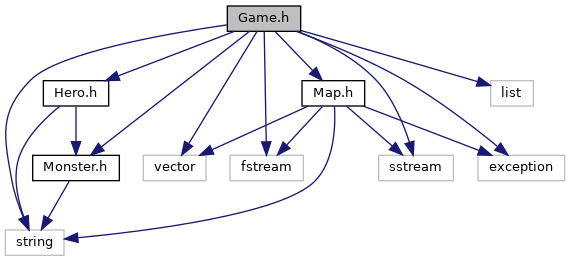
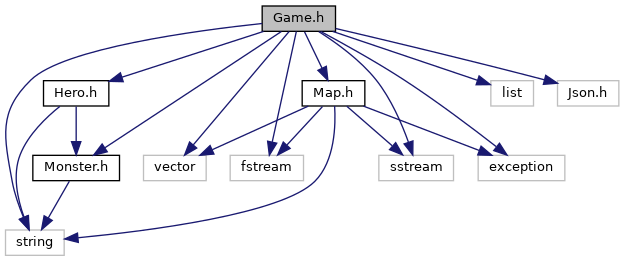
Update gh-pages to output generated at 0e535df

diff --git a/Game_8h_source.html b/Game_8h_source.html
@@ -82,75 +82,76 @@ $(function() {
 <div class="line"><a name="l00025"></a><span class="lineno">   25</span>&#160;<span class="preprocessor">#include &quot;<a class="code" href="Hero_8h.html">Hero.h</a>&quot;</span></div>
 <div class="line"><a name="l00026"></a><span class="lineno">   26</span>&#160;<span class="preprocessor">#include &quot;<a class="code" href="Map_8h.html">Map.h</a>&quot;</span></div>
 <div class="line"><a name="l00027"></a><span class="lineno">   27</span>&#160;<span class="preprocessor">#include &quot;<a class="code" href="Monster_8h.html">Monster.h</a>&quot;</span></div>
-<div class="line"><a name="l00028"></a><span class="lineno">   28</span>&#160; </div>
-<div class="line"><a name="l00029"></a><span class="lineno"><a class="line" href="classGame.html">   29</a></span>&#160;<span class="keyword">class </span><a class="code" href="classGame.html">Game</a></div>
-<div class="line"><a name="l00030"></a><span class="lineno">   30</span>&#160;{</div>
-<div class="line"><a name="l00031"></a><span class="lineno">   31</span>&#160; <span class="keyword">private</span>:</div>
-<div class="line"><a name="l00032"></a><span class="lineno">   32</span>&#160;    std::map&lt;int,std::map&lt;int, std::list&lt;Monster&gt;&gt;&gt; monster_map;</div>
-<div class="line"><a name="l00033"></a><span class="lineno">   33</span>&#160;    <a class="code" href="classMap.html">Map</a>* map=NULL; <span class="comment">//Sets initial value to NULL</span></div>
-<div class="line"><a name="l00034"></a><span class="lineno">   34</span>&#160;    <a class="code" href="classHero.html">Hero</a>* hero=NULL; <span class="comment">//Sets initial value to NULL</span></div>
-<div class="line"><a name="l00043"></a><span class="lineno">   43</span>&#160;<span class="comment"></span>    <span class="keywordtype">void</span> initMonsterMap();</div>
-<div class="line"><a name="l00052"></a><span class="lineno">   52</span>&#160;    <span class="keywordtype">bool</span> anyMonstersAlive();</div>
-<div class="line"><a name="l00053"></a><span class="lineno">   53</span>&#160; <span class="keyword">public</span>:</div>
-<div class="line"><a name="l00060"></a><span class="lineno">   60</span>&#160;    <a class="code" href="classGame.html#ad59df6562a58a614fda24622d3715b65">Game</a>();</div>
-<div class="line"><a name="l00069"></a><span class="lineno">   69</span>&#160;    <a class="code" href="classGame.html#ad59df6562a58a614fda24622d3715b65">Game</a>(std::string);</div>
-<div class="line"><a name="l00076"></a><span class="lineno">   76</span>&#160;    <span class="keywordtype">void</span> <a class="code" href="classGame.html#ad746449c7fd34ff25f986fb4b6358ff6">setMap</a>(<a class="code" href="classMap.html">Map</a>*); <span class="comment">// Set the map</span></div>
-<div class="line"><a name="l00086"></a><span class="lineno">   86</span>&#160;<span class="comment"></span>    <span class="keywordtype">void</span> <a class="code" href="classGame.html#aae230ebacd4b61064470ed6414228def">putHero</a>(<a class="code" href="classHero.html">Hero</a>*, <span class="keywordtype">int</span>, <span class="keywordtype">int</span>);</div>
-<div class="line"><a name="l00093"></a><span class="lineno">   93</span>&#160;    <span class="keywordtype">void</span> <a class="code" href="classGame.html#add0231b4835c8368e43581c4abc01c4c">putMonster</a>(<a class="code" href="classMonster.html">Monster</a>*, <span class="keywordtype">int</span>, <span class="keywordtype">int</span>);</div>
-<div class="line"><a name="l00098"></a><span class="lineno">   98</span>&#160;    <span class="keywordtype">void</span> <a class="code" href="classGame.html#a1ab78f5ed0d5ea879157357cf2fb2afa">run</a>();</div>
-<div class="line"><a name="l00099"></a><span class="lineno">   99</span>&#160; </div>
-<div class="line"><a name="l00100"></a><span class="lineno"><a class="line" href="classGame_1_1OccupiedException.html">  100</a></span>&#160;    <span class="keyword">class </span><a class="code" href="classGame_1_1OccupiedException.html">OccupiedException</a> : std::exception</div>
-<div class="line"><a name="l00101"></a><span class="lineno">  101</span>&#160;    {</div>
-<div class="line"><a name="l00102"></a><span class="lineno">  102</span>&#160;        <span class="keyword">public</span>:</div>
-<div class="line"><a name="l00107"></a><span class="lineno"><a class="line" href="classGame_1_1OccupiedException.html#a2d06f1e94c0d870fa9297d690495c455">  107</a></span>&#160;            <a class="code" href="classGame_1_1OccupiedException.html#a2d06f1e94c0d870fa9297d690495c455">OccupiedException</a>(){}</div>
-<div class="line"><a name="l00108"></a><span class="lineno">  108</span>&#160;    };</div>
-<div class="line"><a name="l00109"></a><span class="lineno"><a class="line" href="classGame_1_1AlreadyHasHeroException.html">  109</a></span>&#160;    <span class="keyword">class </span><a class="code" href="classGame_1_1AlreadyHasHeroException.html">AlreadyHasHeroException</a> : std::exception</div>
-<div class="line"><a name="l00110"></a><span class="lineno">  110</span>&#160;    {</div>
-<div class="line"><a name="l00111"></a><span class="lineno">  111</span>&#160;        <span class="keyword">public</span>:</div>
-<div class="line"><a name="l00116"></a><span class="lineno"><a class="line" href="classGame_1_1AlreadyHasHeroException.html#a661fe174e6ed027c3ebe5a5c13bf5c55">  116</a></span>&#160;            <a class="code" href="classGame_1_1AlreadyHasHeroException.html#a661fe174e6ed027c3ebe5a5c13bf5c55">AlreadyHasHeroException</a>(){}</div>
-<div class="line"><a name="l00117"></a><span class="lineno">  117</span>&#160;    };</div>
-<div class="line"><a name="l00118"></a><span class="lineno"><a class="line" href="classGame_1_1AlreadyHasUnitsException.html">  118</a></span>&#160;    <span class="keyword">class </span><a class="code" href="classGame_1_1AlreadyHasUnitsException.html">AlreadyHasUnitsException</a> : std::exception</div>
-<div class="line"><a name="l00119"></a><span class="lineno">  119</span>&#160;    {</div>
-<div class="line"><a name="l00120"></a><span class="lineno">  120</span>&#160;        <span class="keyword">public</span>:</div>
-<div class="line"><a name="l00126"></a><span class="lineno"><a class="line" href="classGame_1_1AlreadyHasUnitsException.html#a538b74874c5db6e2f7d916275cfe3e98">  126</a></span>&#160;            <a class="code" href="classGame_1_1AlreadyHasUnitsException.html#a538b74874c5db6e2f7d916275cfe3e98">AlreadyHasUnitsException</a>(){}</div>
-<div class="line"><a name="l00127"></a><span class="lineno">  127</span>&#160;    };</div>
-<div class="line"><a name="l00128"></a><span class="lineno">  128</span>&#160;    </div>
-<div class="line"><a name="l00129"></a><span class="lineno"><a class="line" href="classGame_1_1NotInitializedException.html">  129</a></span>&#160;    <span class="keyword">class </span><a class="code" href="classGame_1_1NotInitializedException.html">NotInitializedException</a> : std::exception</div>
-<div class="line"><a name="l00130"></a><span class="lineno">  130</span>&#160;    {</div>
-<div class="line"><a name="l00131"></a><span class="lineno">  131</span>&#160;        <span class="keyword">public</span>:</div>
-<div class="line"><a name="l00138"></a><span class="lineno"><a class="line" href="classGame_1_1NotInitializedException.html#a940350c425f5d08a07fdeabc3814e552">  138</a></span>&#160;            <a class="code" href="classGame_1_1NotInitializedException.html#a940350c425f5d08a07fdeabc3814e552">NotInitializedException</a>(){}</div>
-<div class="line"><a name="l00139"></a><span class="lineno">  139</span>&#160;    };</div>
-<div class="line"><a name="l00140"></a><span class="lineno">  140</span>&#160;    </div>
-<div class="line"><a name="l00141"></a><span class="lineno"><a class="line" href="classGame_1_1GameAlreadyStartedException.html">  141</a></span>&#160;    <span class="keyword">class </span><a class="code" href="classGame_1_1GameAlreadyStartedException.html">GameAlreadyStartedException</a> : std::exception</div>
-<div class="line"><a name="l00142"></a><span class="lineno">  142</span>&#160;    {</div>
-<div class="line"><a name="l00143"></a><span class="lineno">  143</span>&#160;        <span class="keyword">public</span>:</div>
-<div class="line"><a name="l00149"></a><span class="lineno"><a class="line" href="classGame_1_1GameAlreadyStartedException.html#a173b886c1b6d0adf4586974b896859bd">  149</a></span>&#160;            <a class="code" href="classGame_1_1GameAlreadyStartedException.html#a173b886c1b6d0adf4586974b896859bd">GameAlreadyStartedException</a>(){}</div>
-<div class="line"><a name="l00150"></a><span class="lineno">  150</span>&#160;    };</div>
-<div class="line"><a name="l00151"></a><span class="lineno">  151</span>&#160; </div>
-<div class="line"><a name="l00152"></a><span class="lineno">  152</span>&#160;};</div>
-<div class="line"><a name="l00153"></a><span class="lineno">  153</span>&#160;<span class="preprocessor">#endif // GAME_HEADER</span></div>
+<div class="line"><a name="l00028"></a><span class="lineno">   28</span>&#160;<span class="preprocessor">#include &quot;Json.h&quot;</span></div>
+<div class="line"><a name="l00029"></a><span class="lineno">   29</span>&#160; </div>
+<div class="line"><a name="l00030"></a><span class="lineno"><a class="line" href="classGame.html">   30</a></span>&#160;<span class="keyword">class </span><a class="code" href="classGame.html">Game</a></div>
+<div class="line"><a name="l00031"></a><span class="lineno">   31</span>&#160;{</div>
+<div class="line"><a name="l00032"></a><span class="lineno">   32</span>&#160; <span class="keyword">private</span>:</div>
+<div class="line"><a name="l00033"></a><span class="lineno">   33</span>&#160;    std::map&lt;int,std::map&lt;int, std::list&lt;Monster&gt;&gt;&gt; monster_map;</div>
+<div class="line"><a name="l00034"></a><span class="lineno">   34</span>&#160;    <a class="code" href="classMap.html">Map</a>* map=NULL; <span class="comment">//Sets initial value to NULL</span></div>
+<div class="line"><a name="l00035"></a><span class="lineno">   35</span>&#160;    <a class="code" href="classHero.html">Hero</a>* hero=NULL; <span class="comment">//Sets initial value to NULL</span></div>
+<div class="line"><a name="l00044"></a><span class="lineno">   44</span>&#160;<span class="comment"></span>    <span class="keywordtype">void</span> initMonsterMap();</div>
+<div class="line"><a name="l00053"></a><span class="lineno">   53</span>&#160;    <span class="keywordtype">bool</span> anyMonstersAlive();</div>
+<div class="line"><a name="l00054"></a><span class="lineno">   54</span>&#160; <span class="keyword">public</span>:</div>
+<div class="line"><a name="l00061"></a><span class="lineno">   61</span>&#160;    <a class="code" href="classGame.html#ad59df6562a58a614fda24622d3715b65">Game</a>();</div>
+<div class="line"><a name="l00070"></a><span class="lineno">   70</span>&#160;    <a class="code" href="classGame.html#ad59df6562a58a614fda24622d3715b65">Game</a>(std::string);</div>
+<div class="line"><a name="l00077"></a><span class="lineno">   77</span>&#160;    <span class="keywordtype">void</span> <a class="code" href="classGame.html#ad746449c7fd34ff25f986fb4b6358ff6">setMap</a>(<a class="code" href="classMap.html">Map</a>*); <span class="comment">// Set the map</span></div>
+<div class="line"><a name="l00087"></a><span class="lineno">   87</span>&#160;<span class="comment"></span>    <span class="keywordtype">void</span> <a class="code" href="classGame.html#aae230ebacd4b61064470ed6414228def">putHero</a>(<a class="code" href="classHero.html">Hero</a>*, <span class="keywordtype">int</span>, <span class="keywordtype">int</span>);</div>
+<div class="line"><a name="l00094"></a><span class="lineno">   94</span>&#160;    <span class="keywordtype">void</span> <a class="code" href="classGame.html#add0231b4835c8368e43581c4abc01c4c">putMonster</a>(<a class="code" href="classMonster.html">Monster</a>*, <span class="keywordtype">int</span>, <span class="keywordtype">int</span>);</div>
+<div class="line"><a name="l00099"></a><span class="lineno">   99</span>&#160;    <span class="keywordtype">void</span> <a class="code" href="classGame.html#ae3421b6527a55fc0aaa514c2d53a6832">run</a>(<span class="keywordtype">bool</span>);</div>
+<div class="line"><a name="l00100"></a><span class="lineno">  100</span>&#160; </div>
+<div class="line"><a name="l00101"></a><span class="lineno"><a class="line" href="classGame_1_1OccupiedException.html">  101</a></span>&#160;    <span class="keyword">class </span><a class="code" href="classGame_1_1OccupiedException.html">OccupiedException</a> : std::exception</div>
+<div class="line"><a name="l00102"></a><span class="lineno">  102</span>&#160;    {</div>
+<div class="line"><a name="l00103"></a><span class="lineno">  103</span>&#160;        <span class="keyword">public</span>:</div>
+<div class="line"><a name="l00108"></a><span class="lineno"><a class="line" href="classGame_1_1OccupiedException.html#a2d06f1e94c0d870fa9297d690495c455">  108</a></span>&#160;            <a class="code" href="classGame_1_1OccupiedException.html#a2d06f1e94c0d870fa9297d690495c455">OccupiedException</a>(){}</div>
+<div class="line"><a name="l00109"></a><span class="lineno">  109</span>&#160;    };</div>
+<div class="line"><a name="l00110"></a><span class="lineno"><a class="line" href="classGame_1_1AlreadyHasHeroException.html">  110</a></span>&#160;    <span class="keyword">class </span><a class="code" href="classGame_1_1AlreadyHasHeroException.html">AlreadyHasHeroException</a> : std::exception</div>
+<div class="line"><a name="l00111"></a><span class="lineno">  111</span>&#160;    {</div>
+<div class="line"><a name="l00112"></a><span class="lineno">  112</span>&#160;        <span class="keyword">public</span>:</div>
+<div class="line"><a name="l00117"></a><span class="lineno"><a class="line" href="classGame_1_1AlreadyHasHeroException.html#a661fe174e6ed027c3ebe5a5c13bf5c55">  117</a></span>&#160;            <a class="code" href="classGame_1_1AlreadyHasHeroException.html#a661fe174e6ed027c3ebe5a5c13bf5c55">AlreadyHasHeroException</a>(){}</div>
+<div class="line"><a name="l00118"></a><span class="lineno">  118</span>&#160;    };</div>
+<div class="line"><a name="l00119"></a><span class="lineno"><a class="line" href="classGame_1_1AlreadyHasUnitsException.html">  119</a></span>&#160;    <span class="keyword">class </span><a class="code" href="classGame_1_1AlreadyHasUnitsException.html">AlreadyHasUnitsException</a> : std::exception</div>
+<div class="line"><a name="l00120"></a><span class="lineno">  120</span>&#160;    {</div>
+<div class="line"><a name="l00121"></a><span class="lineno">  121</span>&#160;        <span class="keyword">public</span>:</div>
+<div class="line"><a name="l00127"></a><span class="lineno"><a class="line" href="classGame_1_1AlreadyHasUnitsException.html#a538b74874c5db6e2f7d916275cfe3e98">  127</a></span>&#160;            <a class="code" href="classGame_1_1AlreadyHasUnitsException.html#a538b74874c5db6e2f7d916275cfe3e98">AlreadyHasUnitsException</a>(){}</div>
+<div class="line"><a name="l00128"></a><span class="lineno">  128</span>&#160;    };</div>
+<div class="line"><a name="l00129"></a><span class="lineno">  129</span>&#160;    </div>
+<div class="line"><a name="l00130"></a><span class="lineno"><a class="line" href="classGame_1_1NotInitializedException.html">  130</a></span>&#160;    <span class="keyword">class </span><a class="code" href="classGame_1_1NotInitializedException.html">NotInitializedException</a> : std::exception</div>
+<div class="line"><a name="l00131"></a><span class="lineno">  131</span>&#160;    {</div>
+<div class="line"><a name="l00132"></a><span class="lineno">  132</span>&#160;        <span class="keyword">public</span>:</div>
+<div class="line"><a name="l00139"></a><span class="lineno"><a class="line" href="classGame_1_1NotInitializedException.html#a940350c425f5d08a07fdeabc3814e552">  139</a></span>&#160;            <a class="code" href="classGame_1_1NotInitializedException.html#a940350c425f5d08a07fdeabc3814e552">NotInitializedException</a>(){}</div>
+<div class="line"><a name="l00140"></a><span class="lineno">  140</span>&#160;    };</div>
+<div class="line"><a name="l00141"></a><span class="lineno">  141</span>&#160;    </div>
+<div class="line"><a name="l00142"></a><span class="lineno"><a class="line" href="classGame_1_1GameAlreadyStartedException.html">  142</a></span>&#160;    <span class="keyword">class </span><a class="code" href="classGame_1_1GameAlreadyStartedException.html">GameAlreadyStartedException</a> : std::exception</div>
+<div class="line"><a name="l00143"></a><span class="lineno">  143</span>&#160;    {</div>
+<div class="line"><a name="l00144"></a><span class="lineno">  144</span>&#160;        <span class="keyword">public</span>:</div>
+<div class="line"><a name="l00150"></a><span class="lineno"><a class="line" href="classGame_1_1GameAlreadyStartedException.html#a173b886c1b6d0adf4586974b896859bd">  150</a></span>&#160;            <a class="code" href="classGame_1_1GameAlreadyStartedException.html#a173b886c1b6d0adf4586974b896859bd">GameAlreadyStartedException</a>(){}</div>
+<div class="line"><a name="l00151"></a><span class="lineno">  151</span>&#160;    };</div>
+<div class="line"><a name="l00152"></a><span class="lineno">  152</span>&#160; </div>
+<div class="line"><a name="l00153"></a><span class="lineno">  153</span>&#160;};</div>
+<div class="line"><a name="l00154"></a><span class="lineno">  154</span>&#160;<span class="preprocessor">#endif // GAME_HEADER</span></div>
 </div><!-- fragment --></div><!-- contents -->
-<div class="ttc" id="aclassGame_1_1AlreadyHasHeroException_html"><div class="ttname"><a href="classGame_1_1AlreadyHasHeroException.html">Game::AlreadyHasHeroException</a></div><div class="ttdef"><b>Definition:</b> Game.h:109</div></div>
+<div class="ttc" id="aclassGame_html_ae3421b6527a55fc0aaa514c2d53a6832"><div class="ttname"><a href="classGame.html#ae3421b6527a55fc0aaa514c2d53a6832">Game::run</a></div><div class="ttdeci">void run(bool)</div><div class="ttdoc">Runs the game. Handles movement on the map, draws the map.</div><div class="ttdef"><b>Definition:</b> Game.cpp:75</div></div>
+<div class="ttc" id="aclassGame_1_1AlreadyHasHeroException_html"><div class="ttname"><a href="classGame_1_1AlreadyHasHeroException.html">Game::AlreadyHasHeroException</a></div><div class="ttdef"><b>Definition:</b> Game.h:110</div></div>
 <div class="ttc" id="aclassGame_html_ad59df6562a58a614fda24622d3715b65"><div class="ttname"><a href="classGame.html#ad59df6562a58a614fda24622d3715b65">Game::Game</a></div><div class="ttdeci">Game()</div><div class="ttdoc">Constructor for a game with no map.</div></div>
-<div class="ttc" id="aclassGame_1_1GameAlreadyStartedException_html_a173b886c1b6d0adf4586974b896859bd"><div class="ttname"><a href="classGame_1_1GameAlreadyStartedException.html#a173b886c1b6d0adf4586974b896859bd">Game::GameAlreadyStartedException::GameAlreadyStartedException</a></div><div class="ttdeci">GameAlreadyStartedException()</div><div class="ttdef"><b>Definition:</b> Game.h:149</div></div>
+<div class="ttc" id="aclassGame_1_1GameAlreadyStartedException_html_a173b886c1b6d0adf4586974b896859bd"><div class="ttname"><a href="classGame_1_1GameAlreadyStartedException.html#a173b886c1b6d0adf4586974b896859bd">Game::GameAlreadyStartedException::GameAlreadyStartedException</a></div><div class="ttdeci">GameAlreadyStartedException()</div><div class="ttdef"><b>Definition:</b> Game.h:150</div></div>
 <div class="ttc" id="aclassGame_html_aae230ebacd4b61064470ed6414228def"><div class="ttname"><a href="classGame.html#aae230ebacd4b61064470ed6414228def">Game::putHero</a></div><div class="ttdeci">void putHero(Hero *, int, int)</div><div class="ttdoc">Puts a hero to a given - and valid - coordinate on a map - on a map with no heroes,...</div><div class="ttdef"><b>Definition:</b> Game.cpp:22</div></div>
-<div class="ttc" id="aclassGame_html_a1ab78f5ed0d5ea879157357cf2fb2afa"><div class="ttname"><a href="classGame.html#a1ab78f5ed0d5ea879157357cf2fb2afa">Game::run</a></div><div class="ttdeci">void run()</div><div class="ttdoc">Runs the game. Handles movement on the map, draws the map.</div><div class="ttdef"><b>Definition:</b> Game.cpp:75</div></div>
 <div class="ttc" id="aMap_8h_html"><div class="ttname"><a href="Map_8h.html">Map.h</a></div><div class="ttdoc">Map class.</div></div>
 <div class="ttc" id="aclassHero_html"><div class="ttname"><a href="classHero.html">Hero</a></div><div class="ttdef"><b>Definition:</b> Hero.h:20</div></div>
-<div class="ttc" id="aclassGame_1_1GameAlreadyStartedException_html"><div class="ttname"><a href="classGame_1_1GameAlreadyStartedException.html">Game::GameAlreadyStartedException</a></div><div class="ttdef"><b>Definition:</b> Game.h:141</div></div>
-<div class="ttc" id="aclassGame_1_1AlreadyHasHeroException_html_a661fe174e6ed027c3ebe5a5c13bf5c55"><div class="ttname"><a href="classGame_1_1AlreadyHasHeroException.html#a661fe174e6ed027c3ebe5a5c13bf5c55">Game::AlreadyHasHeroException::AlreadyHasHeroException</a></div><div class="ttdeci">AlreadyHasHeroException()</div><div class="ttdef"><b>Definition:</b> Game.h:116</div></div>
-<div class="ttc" id="aclassGame_1_1OccupiedException_html"><div class="ttname"><a href="classGame_1_1OccupiedException.html">Game::OccupiedException</a></div><div class="ttdef"><b>Definition:</b> Game.h:100</div></div>
-<div class="ttc" id="aclassGame_1_1AlreadyHasUnitsException_html"><div class="ttname"><a href="classGame_1_1AlreadyHasUnitsException.html">Game::AlreadyHasUnitsException</a></div><div class="ttdef"><b>Definition:</b> Game.h:118</div></div>
-<div class="ttc" id="aclassGame_1_1NotInitializedException_html"><div class="ttname"><a href="classGame_1_1NotInitializedException.html">Game::NotInitializedException</a></div><div class="ttdef"><b>Definition:</b> Game.h:129</div></div>
+<div class="ttc" id="aclassGame_1_1GameAlreadyStartedException_html"><div class="ttname"><a href="classGame_1_1GameAlreadyStartedException.html">Game::GameAlreadyStartedException</a></div><div class="ttdef"><b>Definition:</b> Game.h:142</div></div>
+<div class="ttc" id="aclassGame_1_1AlreadyHasHeroException_html_a661fe174e6ed027c3ebe5a5c13bf5c55"><div class="ttname"><a href="classGame_1_1AlreadyHasHeroException.html#a661fe174e6ed027c3ebe5a5c13bf5c55">Game::AlreadyHasHeroException::AlreadyHasHeroException</a></div><div class="ttdeci">AlreadyHasHeroException()</div><div class="ttdef"><b>Definition:</b> Game.h:117</div></div>
+<div class="ttc" id="aclassGame_1_1OccupiedException_html"><div class="ttname"><a href="classGame_1_1OccupiedException.html">Game::OccupiedException</a></div><div class="ttdef"><b>Definition:</b> Game.h:101</div></div>
+<div class="ttc" id="aclassGame_1_1AlreadyHasUnitsException_html"><div class="ttname"><a href="classGame_1_1AlreadyHasUnitsException.html">Game::AlreadyHasUnitsException</a></div><div class="ttdef"><b>Definition:</b> Game.h:119</div></div>
+<div class="ttc" id="aclassGame_1_1NotInitializedException_html"><div class="ttname"><a href="classGame_1_1NotInitializedException.html">Game::NotInitializedException</a></div><div class="ttdef"><b>Definition:</b> Game.h:130</div></div>
 <div class="ttc" id="aclassMonster_html"><div class="ttname"><a href="classMonster.html">Monster</a></div><div class="ttdef"><b>Definition:</b> Monster.h:19</div></div>
 <div class="ttc" id="aclassGame_html_ad746449c7fd34ff25f986fb4b6358ff6"><div class="ttname"><a href="classGame.html#ad746449c7fd34ff25f986fb4b6358ff6">Game::setMap</a></div><div class="ttdeci">void setMap(Map *)</div><div class="ttdoc">Sets a map in a game with no map.</div><div class="ttdef"><b>Definition:</b> Game.cpp:17</div></div>
-<div class="ttc" id="aclassGame_1_1AlreadyHasUnitsException_html_a538b74874c5db6e2f7d916275cfe3e98"><div class="ttname"><a href="classGame_1_1AlreadyHasUnitsException.html#a538b74874c5db6e2f7d916275cfe3e98">Game::AlreadyHasUnitsException::AlreadyHasUnitsException</a></div><div class="ttdeci">AlreadyHasUnitsException()</div><div class="ttdef"><b>Definition:</b> Game.h:126</div></div>
+<div class="ttc" id="aclassGame_1_1AlreadyHasUnitsException_html_a538b74874c5db6e2f7d916275cfe3e98"><div class="ttname"><a href="classGame_1_1AlreadyHasUnitsException.html#a538b74874c5db6e2f7d916275cfe3e98">Game::AlreadyHasUnitsException::AlreadyHasUnitsException</a></div><div class="ttdeci">AlreadyHasUnitsException()</div><div class="ttdef"><b>Definition:</b> Game.h:127</div></div>
 <div class="ttc" id="aclassGame_html_add0231b4835c8368e43581c4abc01c4c"><div class="ttname"><a href="classGame.html#add0231b4835c8368e43581c4abc01c4c">Game::putMonster</a></div><div class="ttdeci">void putMonster(Monster *, int, int)</div><div class="ttdoc">Puts a monster to a given - and valid - coordinate on a map.</div><div class="ttdef"><b>Definition:</b> Game.cpp:56</div></div>
 <div class="ttc" id="aMonster_8h_html"><div class="ttname"><a href="Monster_8h.html">Monster.h</a></div><div class="ttdoc">Monster class.</div></div>
-<div class="ttc" id="aclassGame_1_1NotInitializedException_html_a940350c425f5d08a07fdeabc3814e552"><div class="ttname"><a href="classGame_1_1NotInitializedException.html#a940350c425f5d08a07fdeabc3814e552">Game::NotInitializedException::NotInitializedException</a></div><div class="ttdeci">NotInitializedException()</div><div class="ttdef"><b>Definition:</b> Game.h:138</div></div>
+<div class="ttc" id="aclassGame_1_1NotInitializedException_html_a940350c425f5d08a07fdeabc3814e552"><div class="ttname"><a href="classGame_1_1NotInitializedException.html#a940350c425f5d08a07fdeabc3814e552">Game::NotInitializedException::NotInitializedException</a></div><div class="ttdeci">NotInitializedException()</div><div class="ttdef"><b>Definition:</b> Game.h:139</div></div>
 <div class="ttc" id="aclassMap_html"><div class="ttname"><a href="classMap.html">Map</a></div><div class="ttdef"><b>Definition:</b> Map.h:23</div></div>
-<div class="ttc" id="aclassGame_html"><div class="ttname"><a href="classGame.html">Game</a></div><div class="ttdef"><b>Definition:</b> Game.h:29</div></div>
-<div class="ttc" id="aclassGame_1_1OccupiedException_html_a2d06f1e94c0d870fa9297d690495c455"><div class="ttname"><a href="classGame_1_1OccupiedException.html#a2d06f1e94c0d870fa9297d690495c455">Game::OccupiedException::OccupiedException</a></div><div class="ttdeci">OccupiedException()</div><div class="ttdoc">Falra nem kerulhet se Monster se Hero. Ugyanarra a szabad mezore azonban kerulhetnek egyszerre,...</div><div class="ttdef"><b>Definition:</b> Game.h:107</div></div>
+<div class="ttc" id="aclassGame_html"><div class="ttname"><a href="classGame.html">Game</a></div><div class="ttdef"><b>Definition:</b> Game.h:30</div></div>
+<div class="ttc" id="aclassGame_1_1OccupiedException_html_a2d06f1e94c0d870fa9297d690495c455"><div class="ttname"><a href="classGame_1_1OccupiedException.html#a2d06f1e94c0d870fa9297d690495c455">Game::OccupiedException::OccupiedException</a></div><div class="ttdeci">OccupiedException()</div><div class="ttdoc">Falra nem kerulhet se Monster se Hero. Ugyanarra a szabad mezore azonban kerulhetnek egyszerre,...</div><div class="ttdef"><b>Definition:</b> Game.h:108</div></div>
 <div class="ttc" id="aHero_8h_html"><div class="ttname"><a href="Hero_8h.html">Hero.h</a></div><div class="ttdoc">Hero class.</div></div>
 <!-- start footer part -->
 <hr class="footer"/><address class="footer"><small>

diff --git a/classGame.html b/classGame.html
@@ -102,9 +102,9 @@ Public Member Functions</h2></td></tr>
 <tr class="memitem:add0231b4835c8368e43581c4abc01c4c"><td class="memItemLeft" align="right" valign="top">void&#160;</td><td class="memItemRight" valign="bottom"><a class="el" href="classGame.html#add0231b4835c8368e43581c4abc01c4c">putMonster</a> (<a class="el" href="classMonster.html">Monster</a> *, int, int)</td></tr>
 <tr class="memdesc:add0231b4835c8368e43581c4abc01c4c"><td class="mdescLeft">&#160;</td><td class="mdescRight">Puts a monster to a given - and valid - coordinate on a map.  <a href="classGame.html#add0231b4835c8368e43581c4abc01c4c">More...</a><br /></td></tr>
 <tr class="separator:add0231b4835c8368e43581c4abc01c4c"><td class="memSeparator" colspan="2">&#160;</td></tr>
-<tr class="memitem:a1ab78f5ed0d5ea879157357cf2fb2afa"><td class="memItemLeft" align="right" valign="top">void&#160;</td><td class="memItemRight" valign="bottom"><a class="el" href="classGame.html#a1ab78f5ed0d5ea879157357cf2fb2afa">run</a> ()</td></tr>
-<tr class="memdesc:a1ab78f5ed0d5ea879157357cf2fb2afa"><td class="mdescLeft">&#160;</td><td class="mdescRight">Runs the game. Handles movement on the map, draws the map.  <a href="classGame.html#a1ab78f5ed0d5ea879157357cf2fb2afa">More...</a><br /></td></tr>
-<tr class="separator:a1ab78f5ed0d5ea879157357cf2fb2afa"><td class="memSeparator" colspan="2">&#160;</td></tr>
+<tr class="memitem:ae3421b6527a55fc0aaa514c2d53a6832"><td class="memItemLeft" align="right" valign="top">void&#160;</td><td class="memItemRight" valign="bottom"><a class="el" href="classGame.html#ae3421b6527a55fc0aaa514c2d53a6832">run</a> (bool)</td></tr>
+<tr class="memdesc:ae3421b6527a55fc0aaa514c2d53a6832"><td class="mdescLeft">&#160;</td><td class="mdescRight">Runs the game. Handles movement on the map, draws the map.  <a href="classGame.html#ae3421b6527a55fc0aaa514c2d53a6832">More...</a><br /></td></tr>
+<tr class="separator:ae3421b6527a55fc0aaa514c2d53a6832"><td class="memSeparator" colspan="2">&#160;</td></tr>
 </table>
 <h2 class="groupheader">Constructor &amp; Destructor Documentation</h2>
 <a id="ad59df6562a58a614fda24622d3715b65"></a>
@@ -236,8 +236,8 @@ Public Member Functions</h2></td></tr>
 
 </div>
 </div>
-<a id="a1ab78f5ed0d5ea879157357cf2fb2afa"></a>
-<h2 class="memtitle"><span class="permalink"><a href="#a1ab78f5ed0d5ea879157357cf2fb2afa">&#9670;&nbsp;</a></span>run()</h2>
+<a id="ae3421b6527a55fc0aaa514c2d53a6832"></a>
+<h2 class="memtitle"><span class="permalink"><a href="#ae3421b6527a55fc0aaa514c2d53a6832">&#9670;&nbsp;</a></span>run()</h2>
 
 <div class="memitem">
 <div class="memproto">
@@ -245,7 +245,8 @@ Public Member Functions</h2></td></tr>
         <tr>
           <td class="memname">void Game::run </td>
           <td>(</td>
-          <td class="paramname"></td><td>)</td>
+          <td class="paramtype">bool&#160;</td>
+          <td class="paramname"><em>is_test</em></td><td>)</td>
           <td></td>
         </tr>
       </table>

diff --git a/Game_8h.html b/Game_8h.html
@@ -81,21 +81,23 @@ $(function() {
 <code>#include &quot;<a class="el" href="Hero_8h_source.html">Hero.h</a>&quot;</code><br />
 <code>#include &quot;<a class="el" href="Map_8h_source.html">Map.h</a>&quot;</code><br />
 <code>#include &quot;<a class="el" href="Monster_8h_source.html">Monster.h</a>&quot;</code><br />
+<code>#include &quot;Json.h&quot;</code><br />
 </div><div class="textblock"><div class="dynheader">
 Include dependency graph for Game.h:</div>
 <div class="dyncontent">
 <div class="center"><img src="Game_8h__incl.png" border="0" usemap="#Game_8h" alt=""/></div>
 <map name="Game_8h" id="Game_8h">
-<area shape="rect" title="Game class." alt="" coords="227,5,301,32"/>
-<area shape="rect" title=" " alt="" coords="5,229,64,256"/>
-<area shape="rect" title=" " alt="" coords="143,155,206,181"/>
-<area shape="rect" title=" " alt="" coords="230,155,303,181"/>
-<area shape="rect" title=" " alt="" coords="379,155,453,181"/>
+<area shape="rect" title="Game class." alt="" coords="262,5,336,32"/>
+<area shape="rect" title=" " alt="" coords="6,229,64,256"/>
+<area shape="rect" title=" " alt="" coords="144,155,206,181"/>
+<area shape="rect" title=" " alt="" coords="230,155,304,181"/>
+<area shape="rect" title=" " alt="" coords="379,155,454,181"/>
 <area shape="rect" title=" " alt="" coords="478,155,565,181"/>
-<area shape="rect" title=" " alt="" coords="491,80,533,107"/>
-<area shape="rect" href="Hero_8h.html" title="Hero class." alt="" coords="43,80,109,107"/>
-<area shape="rect" href="Monster_8h.html" title="Monster class." alt="" coords="33,155,119,181"/>
+<area shape="rect" title=" " alt="" coords="491,80,534,107"/>
+<area shape="rect" href="Hero_8h.html" title="Hero class." alt="" coords="44,80,109,107"/>
+<area shape="rect" href="Monster_8h.html" title="Monster class." alt="" coords="33,155,120,181"/>
 <area shape="rect" href="Map_8h.html" title="Map class." alt="" coords="302,80,365,107"/>
+<area shape="rect" title=" " alt="" coords="558,80,619,107"/>
 </map>
 </div>
 </div>

diff --git a/classGame-members.html b/classGame-members.html
@@ -74,7 +74,7 @@ $(function() {
   <tr><td class="entry"><a class="el" href="classGame.html#adbfa23c79bf094a7b05f8602445d678c">Game</a>(std::string)</td><td class="entry"><a class="el" href="classGame.html">Game</a></td><td class="entry"></td></tr>
   <tr class="even"><td class="entry"><a class="el" href="classGame.html#aae230ebacd4b61064470ed6414228def">putHero</a>(Hero *, int, int)</td><td class="entry"><a class="el" href="classGame.html">Game</a></td><td class="entry"></td></tr>
   <tr><td class="entry"><a class="el" href="classGame.html#add0231b4835c8368e43581c4abc01c4c">putMonster</a>(Monster *, int, int)</td><td class="entry"><a class="el" href="classGame.html">Game</a></td><td class="entry"></td></tr>
-  <tr class="even"><td class="entry"><a class="el" href="classGame.html#a1ab78f5ed0d5ea879157357cf2fb2afa">run</a>()</td><td class="entry"><a class="el" href="classGame.html">Game</a></td><td class="entry"></td></tr>
+  <tr class="even"><td class="entry"><a class="el" href="classGame.html#ae3421b6527a55fc0aaa514c2d53a6832">run</a>(bool)</td><td class="entry"><a class="el" href="classGame.html">Game</a></td><td class="entry"></td></tr>
   <tr><td class="entry"><a class="el" href="classGame.html#ad746449c7fd34ff25f986fb4b6358ff6">setMap</a>(Map *)</td><td class="entry"><a class="el" href="classGame.html">Game</a></td><td class="entry"></td></tr>
 </table></div><!-- contents -->
 <!-- start footer part -->

diff --git a/classGame_1_1NotInitializedException.html b/classGame_1_1NotInitializedException.html
@@ -123,7 +123,7 @@ Public Member Functions</h2></td></tr>
 </div><div class="memdoc">
 <dl class="params"><dt>Parameters</dt><dd>
   <table class="params">
-    <tr><td class="paramname">key</td><td>A hiba leirasa Legyen egy void <a class="el" href="classGame.html#a1ab78f5ed0d5ea879157357cf2fb2afa" title="Runs the game. Handles movement on the map, draws the map.">Game::run()</a>; fuggveny, mely levezenyli a jatekot, de dob egy <a class="el" href="classGame_1_1NotInitializedException.html">Game::NotInitializedException</a>-t, ha meg nincs beallitva terkep, vagy nincs <a class="el" href="classHero.html">Hero</a> a palyan. </td></tr>
+    <tr><td class="paramname">key</td><td>A hiba leirasa Legyen egy void <a class="el" href="classGame.html#ae3421b6527a55fc0aaa514c2d53a6832" title="Runs the game. Handles movement on the map, draws the map.">Game::run()</a>; fuggveny, mely levezenyli a jatekot, de dob egy <a class="el" href="classGame_1_1NotInitializedException.html">Game::NotInitializedException</a>-t, ha meg nincs beallitva terkep, vagy nincs <a class="el" href="classHero.html">Hero</a> a palyan. </td></tr>
   </table>
   </dd>
 </dl>

diff --git a/search/functions_c.js b/search/functions_c.js
@@ -1,5 +1,5 @@
 var searchData=
 [
   ['removejsonspaces_114',['removeJSONSpaces',['../classJSON.html#af7161d083a7d4ea5ff0c76bb8a2fe7f4',1,'JSON']]],
-  ['run_115',['run',['../classGame.html#a1ab78f5ed0d5ea879157357cf2fb2afa',1,'Game']]]
+  ['run_115',['run',['../classGame.html#ae3421b6527a55fc0aaa514c2d53a6832',1,'Game']]]
 ];

diff --git a/search/all_e.js b/search/all_e.js
@@ -1,5 +1,5 @@
 var searchData=
 [
   ['removejsonspaces_53',['removeJSONSpaces',['../classJSON.html#af7161d083a7d4ea5ff0c76bb8a2fe7f4',1,'JSON']]],
-  ['run_54',['run',['../classGame.html#a1ab78f5ed0d5ea879157357cf2fb2afa',1,'Game']]]
+  ['run_54',['run',['../classGame.html#ae3421b6527a55fc0aaa514c2d53a6832',1,'Game']]]
 ];

diff --git a/functions.html b/functions.html
@@ -269,7 +269,7 @@ $(function() {
 : <a class="el" href="classJSON.html#af7161d083a7d4ea5ff0c76bb8a2fe7f4">JSON</a>
 </li>
 <li>run()
-: <a class="el" href="classGame.html#a1ab78f5ed0d5ea879157357cf2fb2afa">Game</a>
+: <a class="el" href="classGame.html#ae3421b6527a55fc0aaa514c2d53a6832">Game</a>
 </li>
 </ul>
 

diff --git a/functions_func.html b/functions_func.html
@@ -216,7 +216,7 @@ $(function() {
 : <a class="el" href="classJSON.html#af7161d083a7d4ea5ff0c76bb8a2fe7f4">JSON</a>
 </li>
 <li>run()
-: <a class="el" href="classGame.html#a1ab78f5ed0d5ea879157357cf2fb2afa">Game</a>
+: <a class="el" href="classGame.html#ae3421b6527a55fc0aaa514c2d53a6832">Game</a>
 </li>
 </ul>
 
